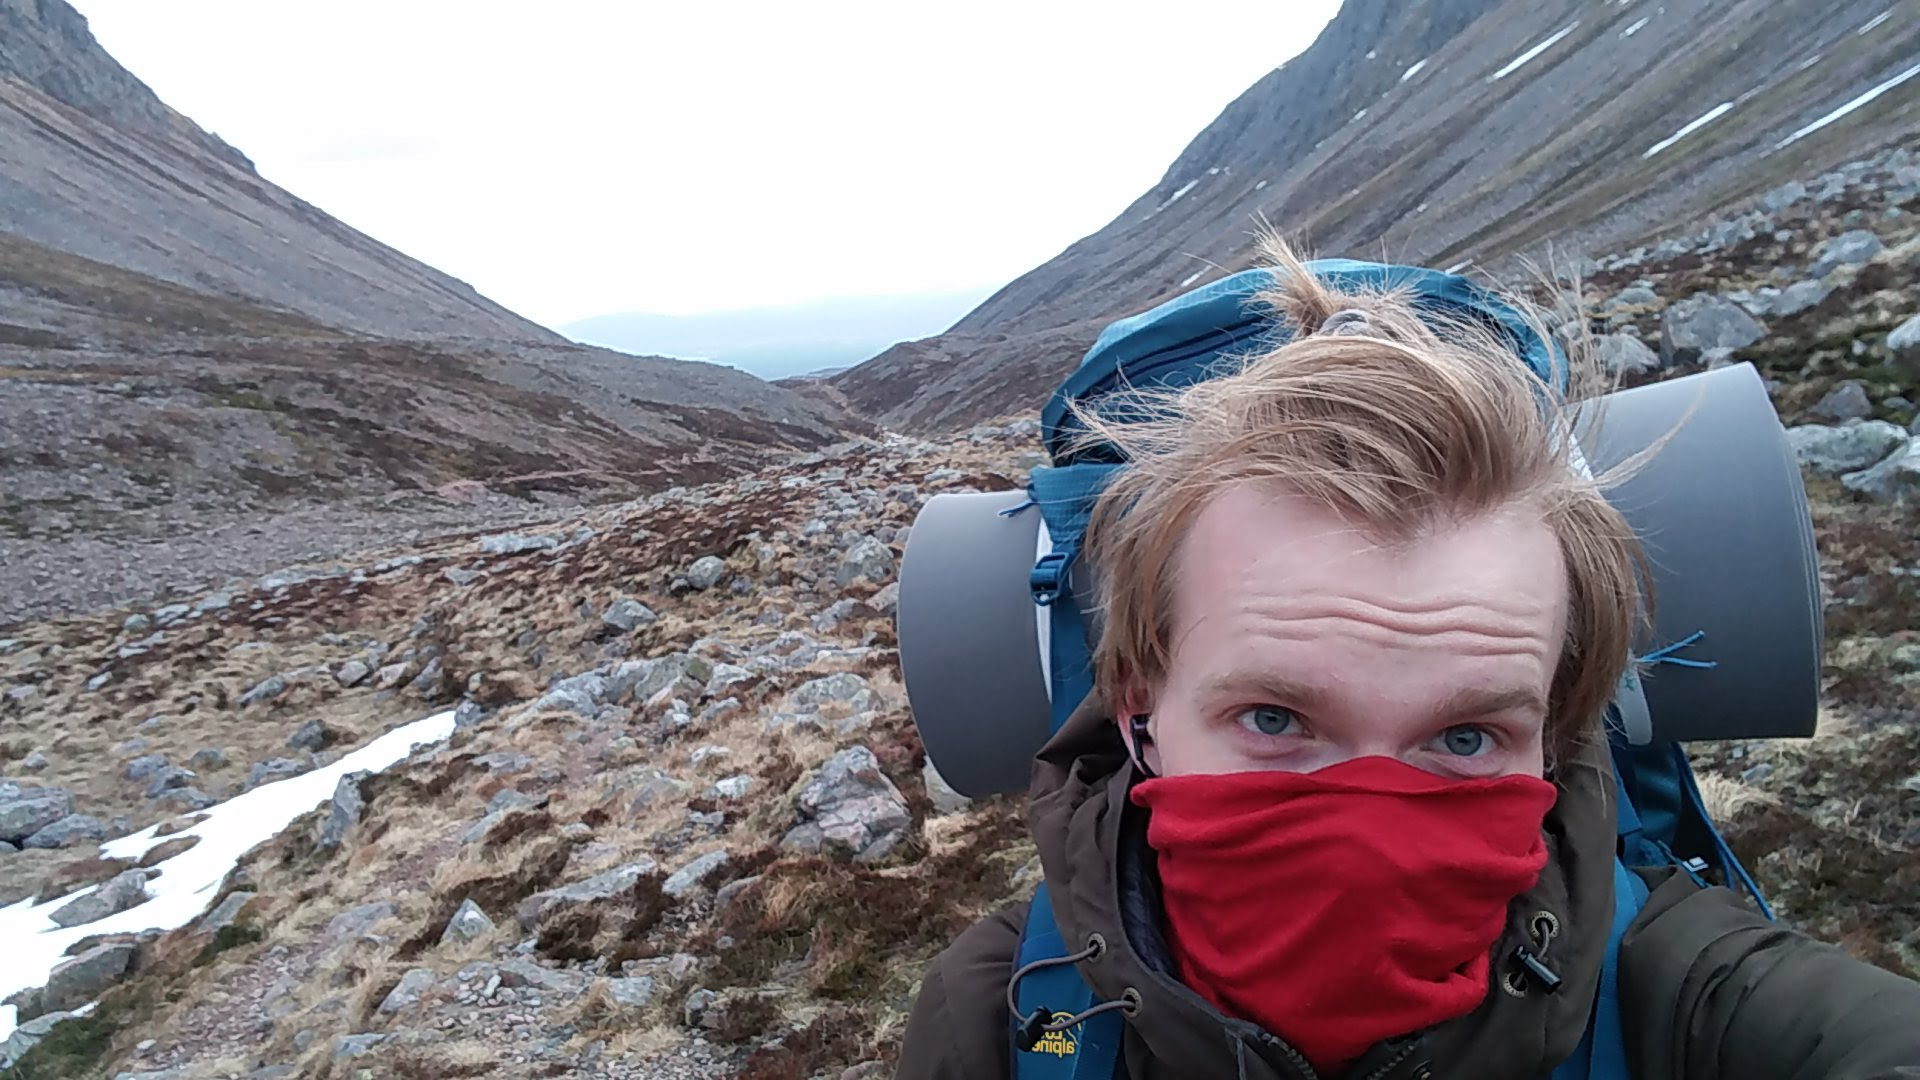
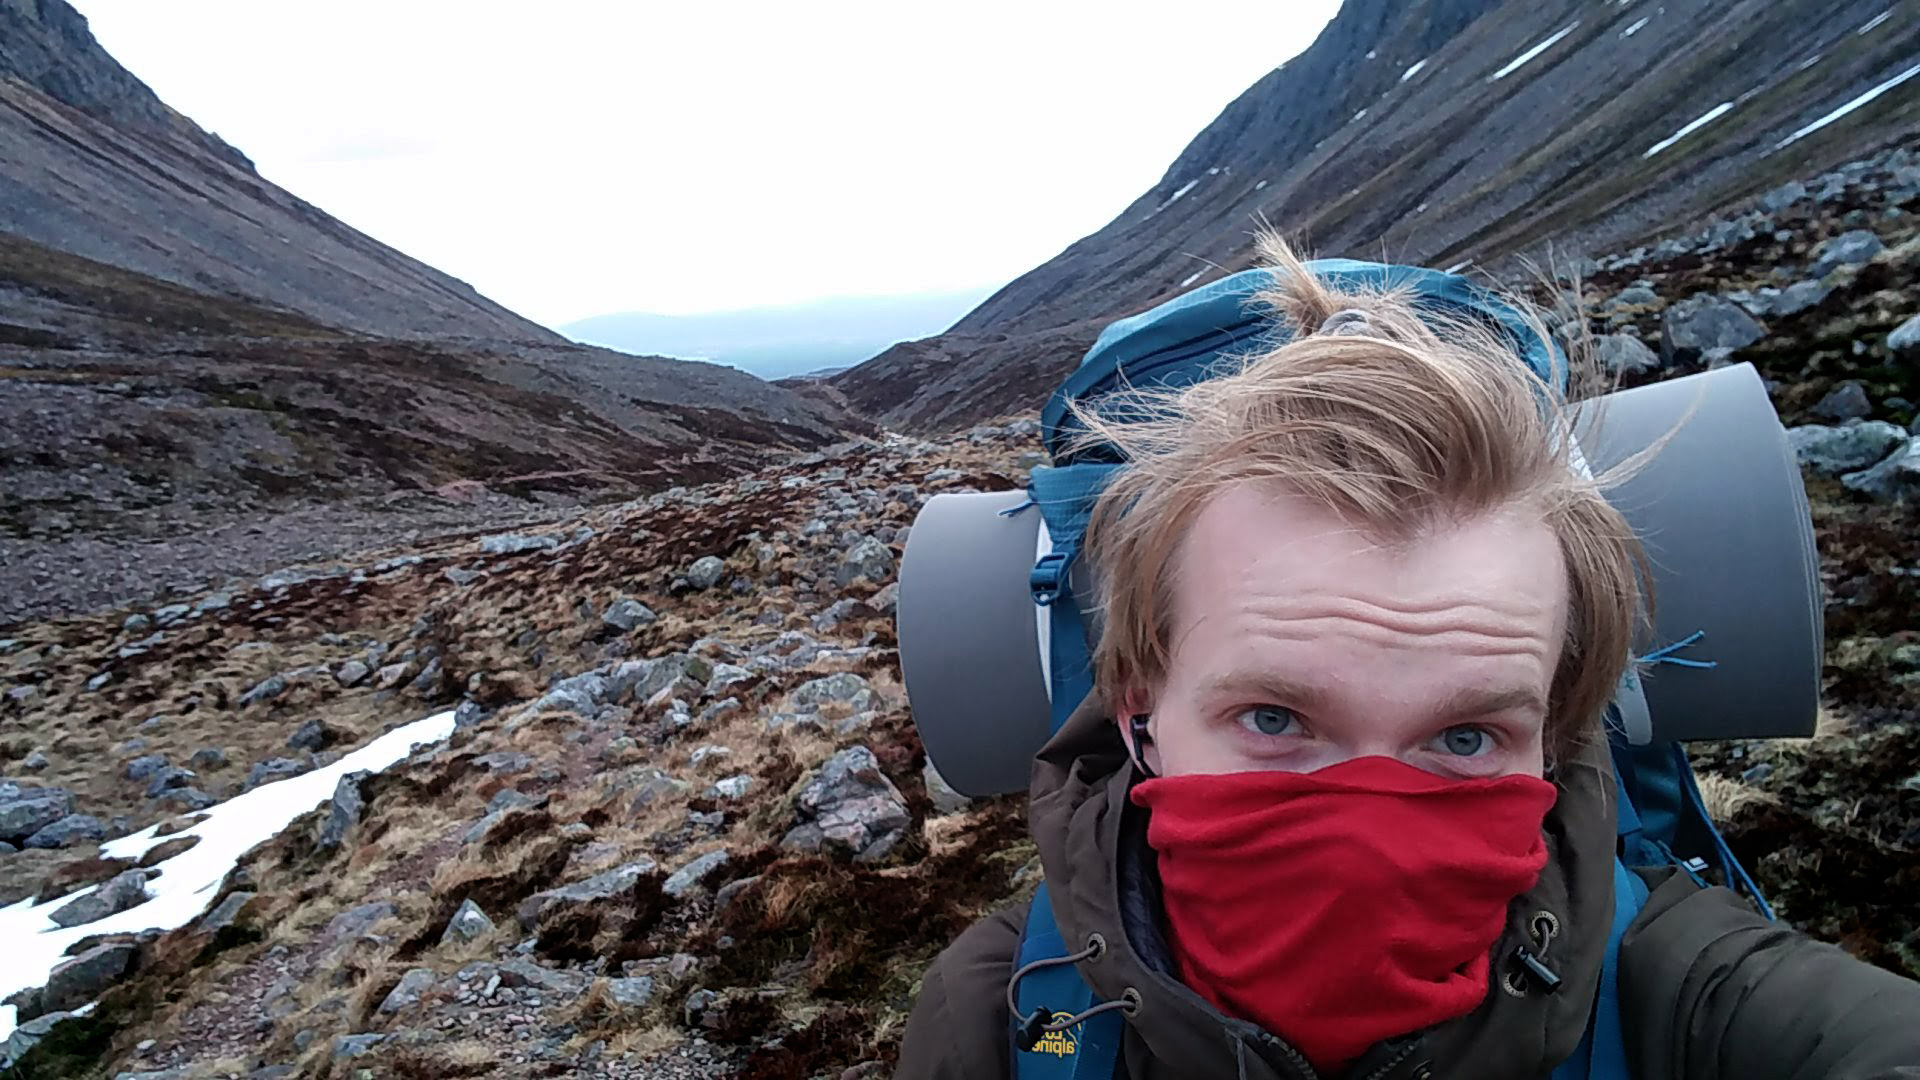
Retouch all images

diff --git a/src/pages/travels/index.md b/src/pages/travels/index.md
@@ -73,19 +73,15 @@ The West Highland Way is one of the most well-known long distance trails in all 
 The trail starts off in the beautiful rolling hills in Milngavie just north of Glasgow, and joins up to Loch Lomond within the first day of walking. The next day or two consist of walking along Loch Lomond, which happens to be the only place on the trail where tenting is prohibited outside of designated camp sites.
 
 <picture-grid columns="2">
-    <img src="whw/IMG_20170517_144225.jpg" alt="View of green hills near Milngavie" />
     <img src="whw/IMG_20170518_094532.jpg" alt="Loch Lomond seen through a frame of trees" />
     <img src="whw/IMG_20170518_163424.jpg" alt="A hillside near Loch Lomond covered in purple flowers" />
-    <img src="whw/IMG_20170519_113942.jpg" alt="Two hikers on a trail in a purple field of flowers besides Loch Lomond" />
+    <img src="whw/IMG_20170520_084707.jpg" alt="My rain covered tent in front of a clouy mountainside" />
 </picture-grid>
 
 Beyond Loch Lomond the area becomes much more rugged. Although far from a difficult trail, it does start becoming more mountainous as you get further from the surrounding towns.
 
-<picture-grid coumns="3">
-    <img src="whw/IMG_20170520_084707.jpg" alt="My rain covered tent in front of a clouy mountainside" />
+<picture-grid coumns="2">
     <img src="whw/IMG_20170521_122625.jpg" alt="A broken down green caravan sits alone on a mountainside" />
-    <img src="whw/IMG_20170521_181102.jpg" alt="My tent besides the ruins of an old stone house" />
-    <img src="whw/IMG_20170522_170557.jpg" alt="Cloudy mountains as seen from within Kinlochleven" />
     <img src="whw/IMG_20170523_123955.jpg" alt="Ruins of a stone house besides the trail in a mountain pass" />
 </picture-grid>
 
@@ -102,26 +98,18 @@ I can whole heartedly recommend going for it if a week of walking sounds even re
 The Cairngorms National Park features a small mountain range surrounded by the towns of Aviemore and Braemar. The area is excellent for rock and ice climbing, and is home to a significant mountaineering community.  
 I backpacked around the mountain range for my first solo-trek, combining it with a crash-course on basic mountaineering for future use.
 
-<picture-grid columns="1">
-    <img src="cairngorms/IMG_20170325_145054.jpg" alt="Panorama from the upper areas of Cairngorms" />
-</picture>
-
 The trek started off relatively simply, following the western edge of the mountain range. Walking near ground level made for some easy spring hiking.
 
 <picture-grid columns="3">
     <img src="cairngorms/IMG_20170326_134328.jpg" alt="My backpack on a small foot bridge over a creak" />
-    <img src="cairngorms/IMG_20170326_172932.jpg" alt="View of the trail after the first day" />
     <img src="cairngorms/IMG_20170326_180008.jpg" alt="Campsite for the night near a small creak" />
-    <img src="cairngorms/IMG_20170327_163012.jpg" alt="A larger foot bridge allows crossing of a river" />
-    <img src="cairngorms/IMG_20170327_193758.jpg" alt="Evening view of the river that the trail followed for the majority of the ground level part" />
+    <img src="cairngorms/IMG_20170328_181608.jpg" alt="Selfie taken while crossing a mountain pass" />
 </picture-grid>
 
 After making it to the south side of the mountains, the way back was through the central mountain pass. This made for some significantly more fun walking, including a few sections of snow.
 
 <picture-grid columns="2">
-    <img src="cairngorms/IMG_20170328_151939.jpg" />
-    <img src="cairngorms/IMG_20170331_133726.jpg" />
-    <img src="cairngorms/IMG_20170328_171716.jpg" />
+    <img src="cairngorms/IMG_20170328_171716.jpg" alt="Dinner?... Snickers in a Trangia set, referencing an in-joke" />
 </picture-grid>
 
 Unfortunately this trip was a bit underwhelming; if I were to redo it, I would definitely prioritize spending more time in the actual mountains rather than around them - possibly with some rock climbing thrown in.
